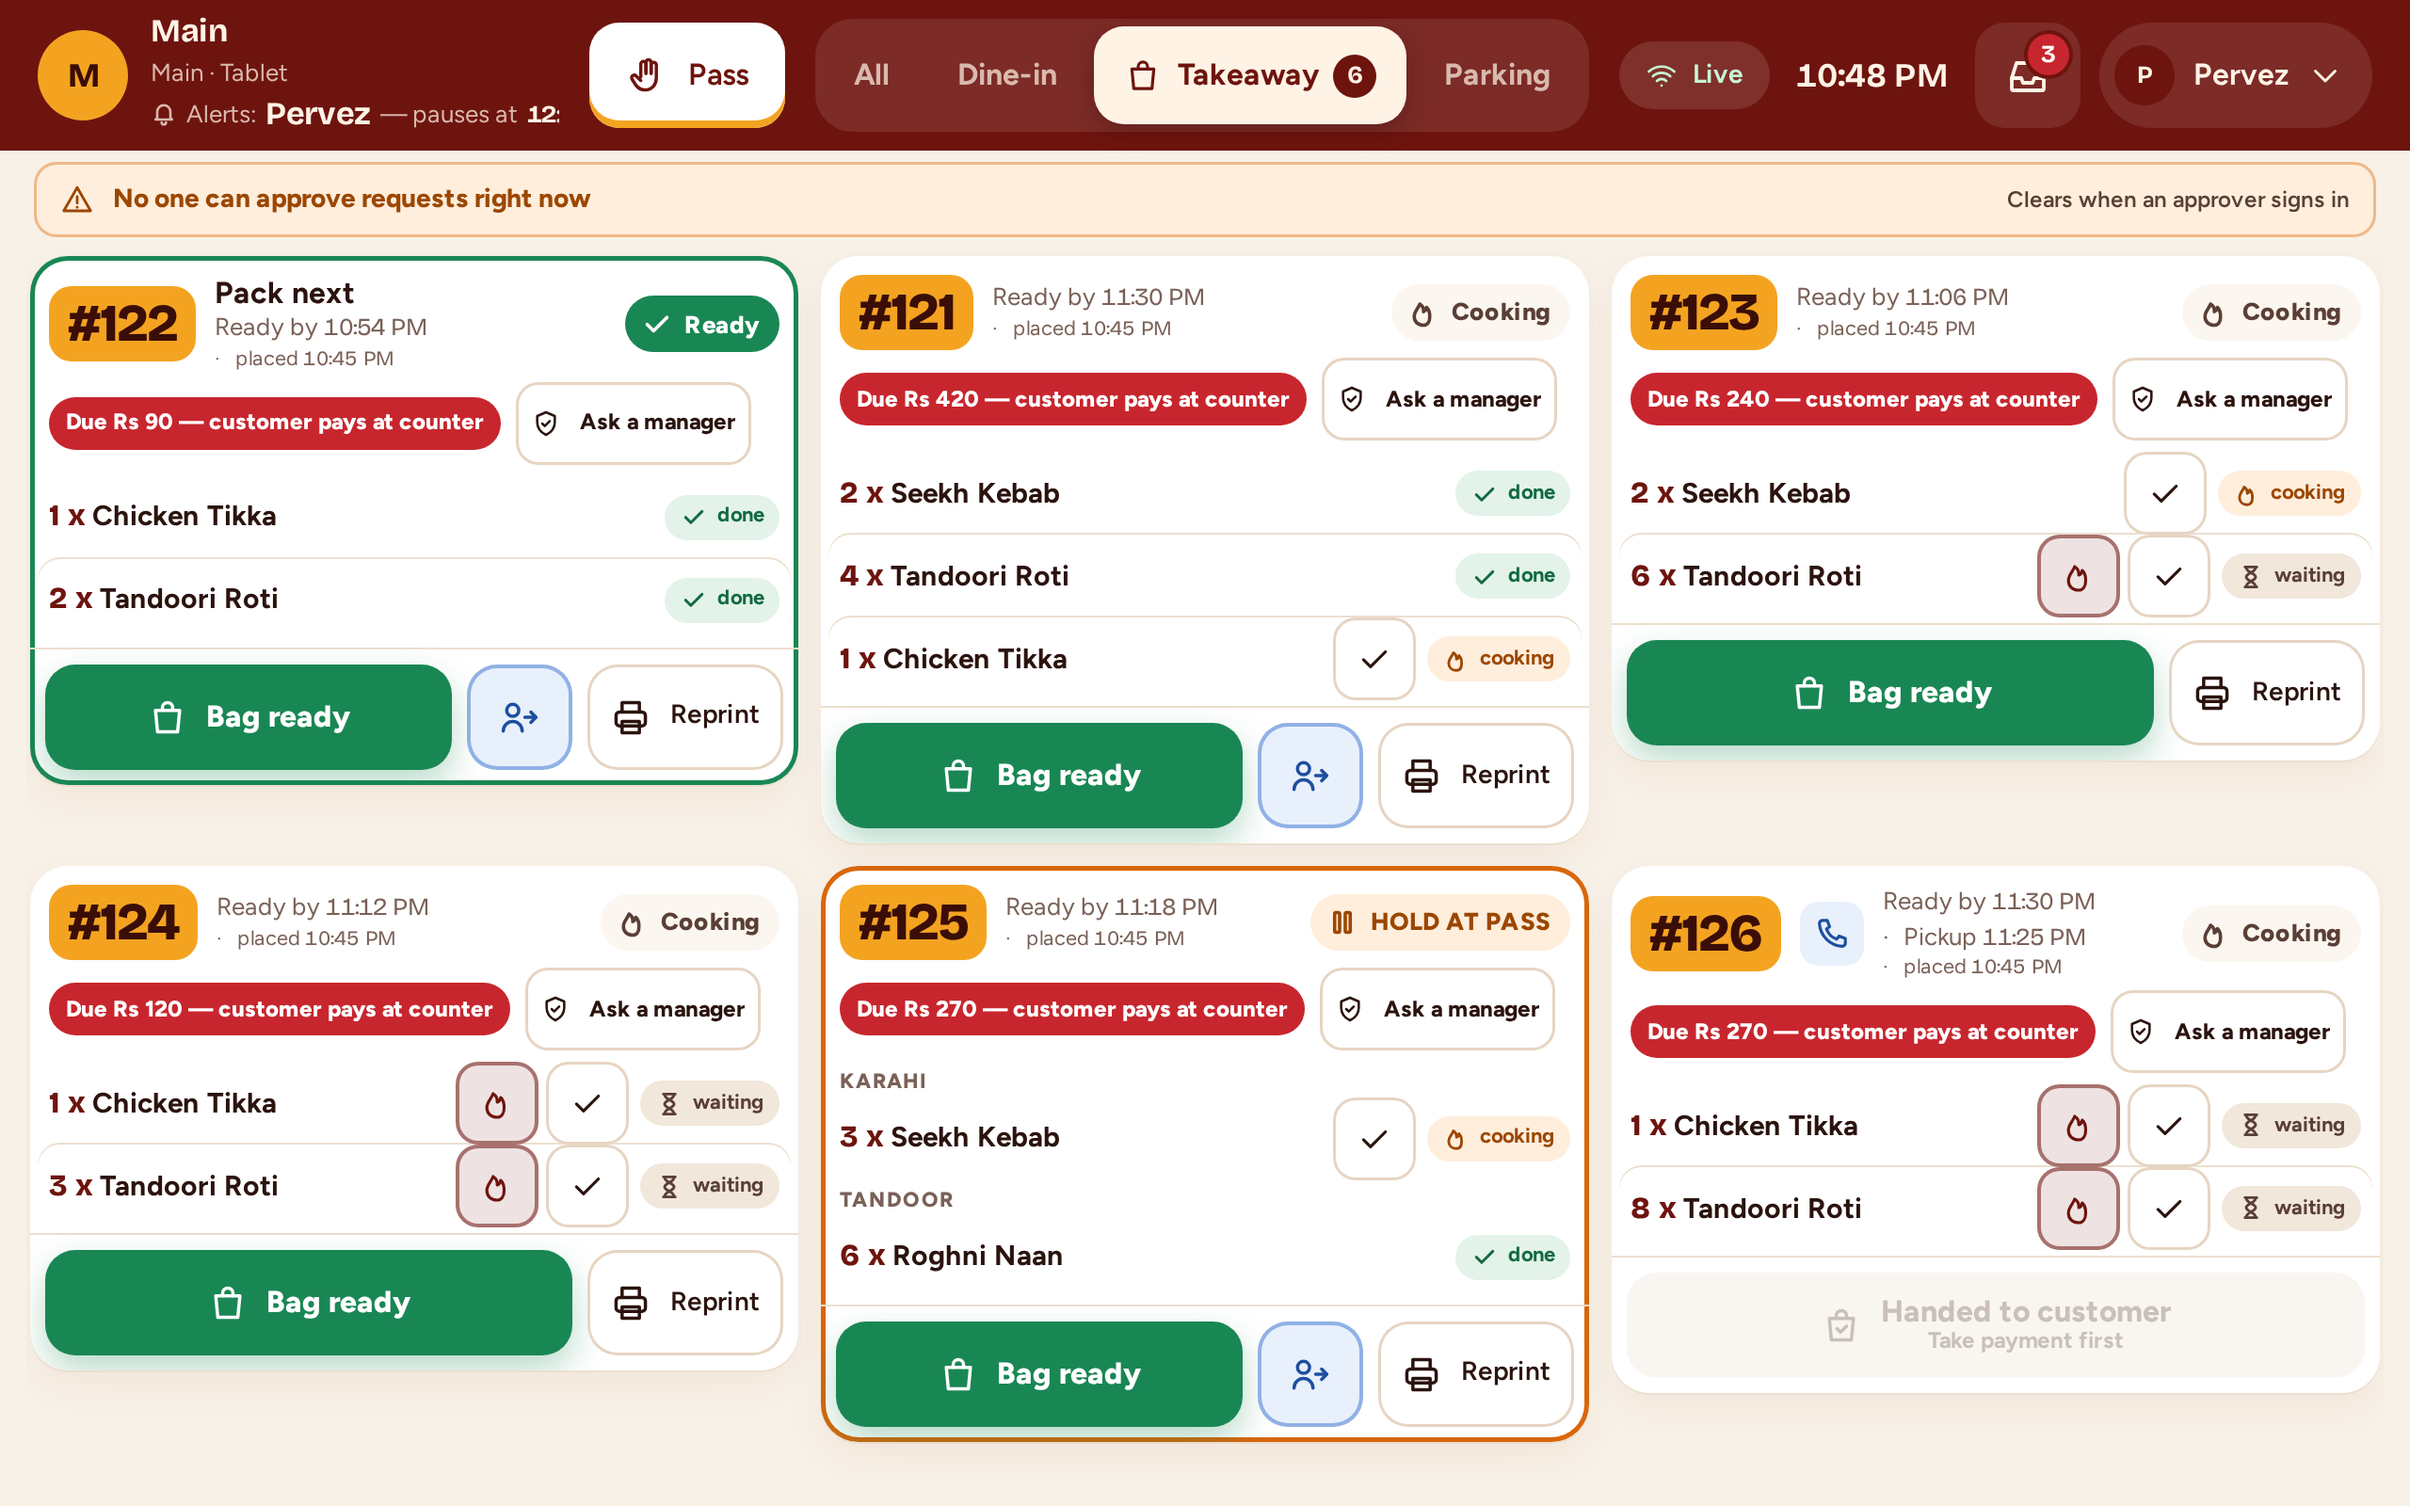
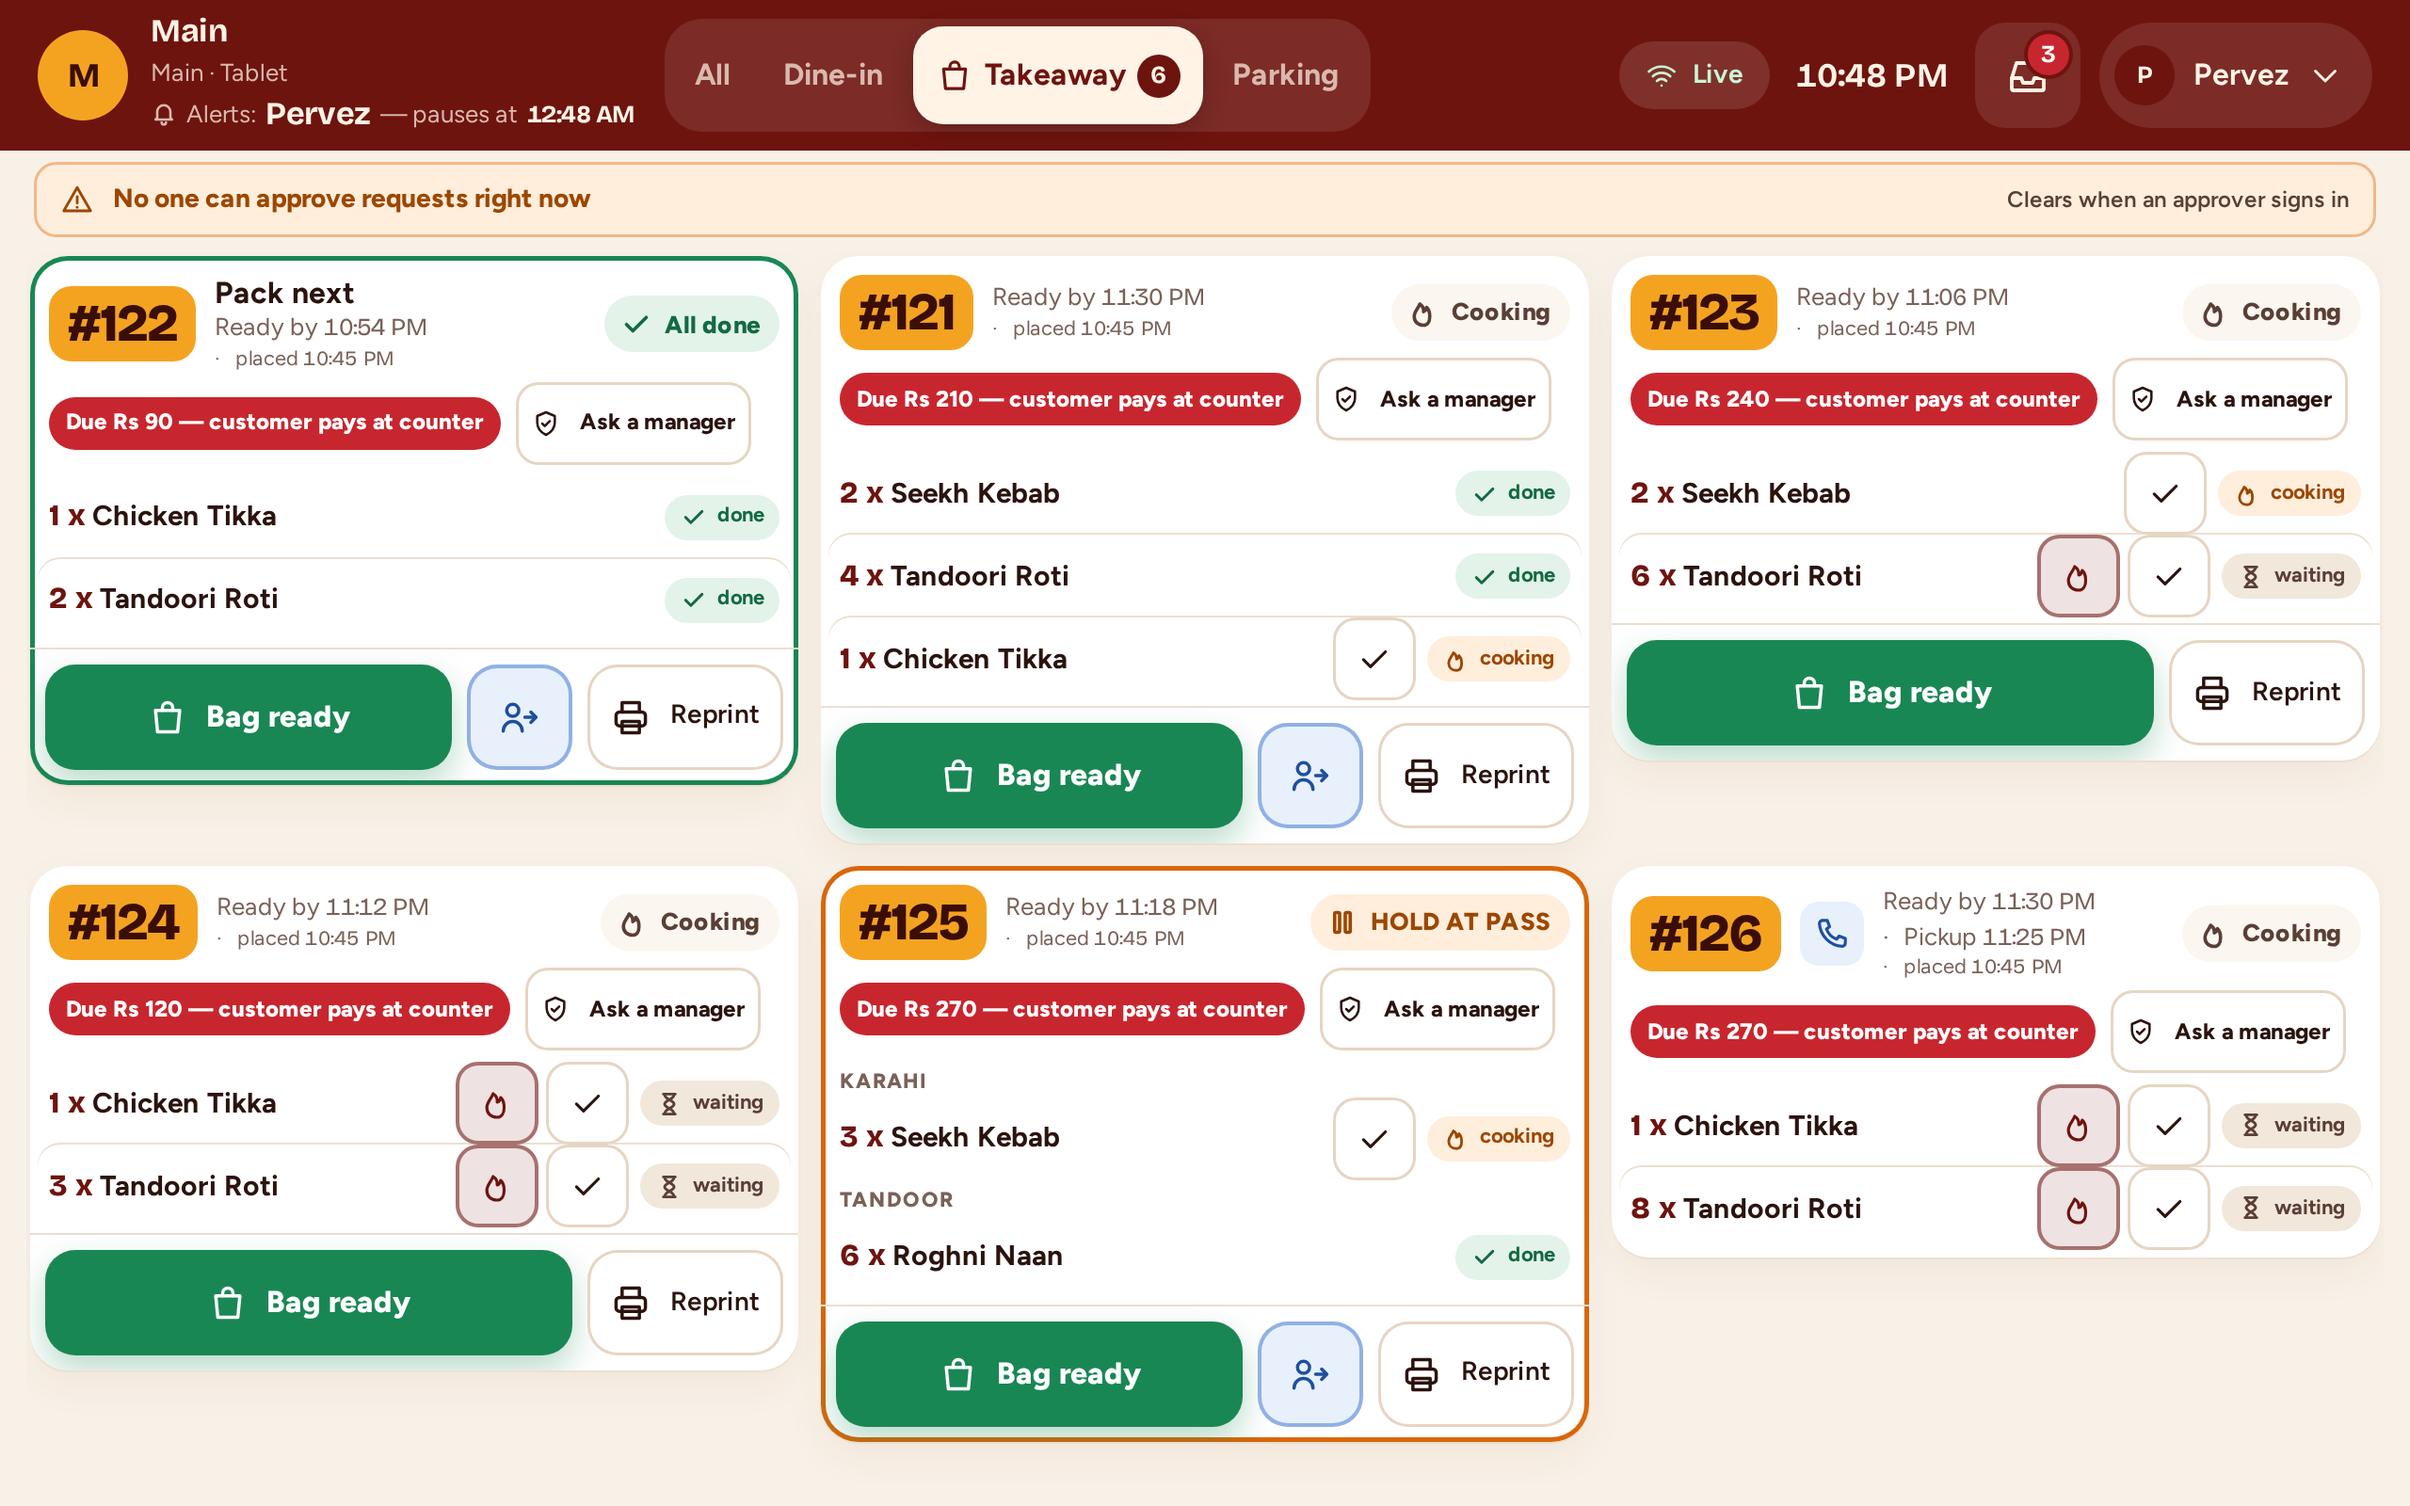
fix(pass): All done vs Ready; a Ready bag never shows Bag ready; no Handed to customer on a cooking or waiting pickup bag; the top bar brand line never clipped; normal build shot [03b v1.0.18 §8]
Claude-Session: https://claude.ai/code/session_01DTZfXLWhi8eHLTtB51vUeM

diff --git a/apps/client/src/features/pass/bag-screen.test.tsx b/apps/client/src/features/pass/bag-screen.test.tsx
@@ -249,3 +249,40 @@ describe('[03b v1.0.17 §3.4; 02b v1.0.26 Q9] Ask a manager on a bag with two bi
     expect(cards()[0]!.querySelector<HTMLButtonElement>('.btn--customer')!.disabled).toBe(false);
   });
 });
+
+// ⚠ 03b v1.0.18 §3.4, §8 (QA design review 2026-11-28): one primary per state, and the pill says which state.
+// All lines done, not marked → pill "All done", primary Bag ready. Marked ready (sent) → pill "Ready", never Bag ready
+// (even with a later line not in the Ready): "Handed to customer" (or its greyed reason) is the primary.
+describe('[03b v1.0.18 §8] Ready means bagged', () => {
+  it('done, not marked → "All done" + Bag ready; marked → "Ready" + Handed to customer, no Bag ready', async () => {
+    const paid = { state: 'paid', due_minor: 0 };
+    const s = shellWith({ grants: PASS, bills: () => openOrders([hubRow('O1', paid)]) });
+    s.raw({ type: 'catch_up', as_of_seq: 1, state: { point_view: view([tokOrder('O1', 'done', 600_000, { ready: null })]) } });
+    show(s.shell);
+    await flush();
+    let c = cards()[0]!;
+    expect(c.querySelector('.rd')!.textContent).toBe('All done');
+    expect(c.querySelectorAll('.pc__f .btn--ready')).toHaveLength(1);
+    expect(c.querySelector('.btn--customer')).toBeNull();
+    // marked ready; a remade line finished later, not in the Ready
+    const sent = tokOrder('O1', 'done', 600_000, { ready: { at: BASE - 10_000, by: null, lines: ['O1-L1'] } });
+    sent.lines.push(line('O1-L2', 'O1', 'done', { identifier: tok }));
+    s.raw({ type: 'catch_up', as_of_seq: 2, state: { point_view: view([sent]) } });
+    await new Promise((r) => setTimeout(r, 1_100)); // the catch-up invalidated the bill read (≥ 1 s debounce)
+    await flush();
+    c = cards()[0]!;
+    expect(c.querySelector('.rd')!.textContent).toBe('Ready');
+    expect(c.querySelector('.pc__f .btn--ready')).toBeNull();
+    expect(c.querySelector<HTMLButtonElement>('.btn--customer')!.disabled).toBe(false);
+  });
+
+  it('a pickup bag still waiting for its whole order shows no Handed to customer (and no greyed one as its primary)', async () => {
+    const s = shellWith({ grants: PASS, bills: () => openOrders([hubRow('O1', { state: 'paid', due_minor: 0 })]) });
+    const pickup = tokOrder('O1', 'done', 600_000, { ready: null, pickup_at_ms: BASE + 30 * 60_000, boosted: false, pickup_readiness: { all_engine_lines_done: false, station_less_hold_until: null } });
+    s.raw({ type: 'catch_up', as_of_seq: 1, state: { point_view: view([pickup]) } });
+    show(s.shell);
+    await new Promise((r) => setTimeout(r, 1_100));
+    await flush();
+    expect(cards()[0]!.querySelector('.btn--customer')).toBeNull();
+  });
+});

diff --git a/apps/client/src/features/pass/PassScreen.tsx b/apps/client/src/features/pass/PassScreen.tsx
@@ -448,7 +448,9 @@ export function PassScreen() {
               // something is not marked ready; then Handed to customer (counter) or Hand over (dine-in). Hand over to
               // staff is otherwise a small secondary icon button (the receiver tiles sheet, for the whole token).
               // ⚠ 03b v1.0.10 §3.4: Bag ready also with an open Ready while lines not in it are left
-              const bagging = canRun && bagOk && pending.length > 0 && state !== 'none';
+              // ⚠ 03b v1.0.18 §8: never on a takeaway / parking bag already marked ready (`sent`): its primary is Handed to
+              // customer, which serves every live line; a dine-in card keeps Ready to serve for lines finished later (v1.0.10)
+              const bagging = canRun && bagOk && pending.length > 0 && state !== 'none' && !(counter && state === 'sent');
               if (bagging) {
                 const b = busy.has(key);
                 buttons.push(
@@ -490,7 +492,9 @@ export function PassScreen() {
               const asks: AskItem[] = askBills.map((b) => ({ order_id: b.order_ids[0]!, due_minor: b.due_minor, ident: customerIdent(bag.card), addition: b.addition }));
               // the Pass→staff Hand over (§3.5), for the whole token (one Handover per order with done lines)
               const toHand = canRun && bag.orders.some((x) => doneToHand(x).length > 0);
-              if (cust !== null && !bagging)
+              // ⚠ 03b v1.0.18 §8: Handed to customer only on a bag marked ready (or all done where nobody here can bag it);
+              // a bag still cooking — a pickup waiting for its whole order included — never shows it as its primary
+              if (cust !== null && !bagging && (state === 'sent' || state === 'ready'))
                 buttons.push(
                   <button key="customer" type="button" className="btn btn--customer" disabled={!cust.enabled} onClick={() => void tapCustomer(bag)}>
                     <svg className="ico" viewBox="0 0 24 24" aria-hidden="true">

diff --git a/apps/client/src/features/staff/tables/TopBar.tsx b/apps/client/src/features/staff/tables/TopBar.tsx
@@ -140,7 +140,9 @@ export function TopBar(p: TopBarProps) {
             </div>
           </div>
         )}
-        {p.person !== null && p.tabs !== undefined && p.tabs.length > 0 && (
+        {/* ⚠ 03b v1.0.18 §8: a single screen tab says nothing when the screen has its own row here (the Pass's type tabs):
+            it goes, so the brand line ("Alerts: … — pauses at …") is never clipped */}
+        {p.person !== null && p.tabs !== undefined && p.tabs.length > 0 && !(p.tabs.length === 1 && p.extra != null && p.extra !== false) && (
           <nav className="tabs-top" aria-label={t('tabs.tables')}>
             {p.tabs.map((tab) => (
               <a key={tab.key} className={p.currentTab === tab.key ? 'btn is-sel' : 'btn'} href={`#${tab.path}`} {...(p.currentTab === tab.key ? { 'aria-current': 'page' as const } : {})}>

diff --git a/apps/client/e2e/02b-tk-bags.spec.ts b/apps/client/e2e/02b-tk-bags.spec.ts
@@ -104,6 +104,9 @@ test('[03b v1.0.17 §8] every station has a screen: status chips only, no strip;
     await expect(page.locator('article.pc', { hasText: tr(lang, 'pass.group_no_screen').split('{station}')[1]!.trim() })).toHaveCount(0);
     await page.evaluate(() => document.fonts.ready.then(() => undefined));
     for (let i = 0; i < 6; i++) expect(await fullyVisible(page, cards.nth(i)), `card ${i + 1}`).toBe(true);
+    // 03b v1.0.18 §8: the top bar's alerts line ("Alerts: … — pauses at …") is never clipped
+    const clipped = await page.locator('header.top .brand .bind').evaluate((el) => el.scrollWidth > el.clientWidth + 1);
+    expect(clipped, 'the brand line is clipped').toBe(false);
     mkdirSync(SHOTS, { recursive: true });
     await page.screenshot({ path: `${SHOTS}/PackerPass-normal-1280x800.png` });
 

diff --git a/apps/client/src/i18n/ur.ts b/apps/client/src/i18n/ur.ts
@@ -1793,6 +1793,7 @@ export const ur: Partial<Record<MessageKey, string>> = {
   'pass.addition_tag': '(اضافہ)', // 03b v1.0.17; Urdu to confirm
   'pass.ready_pick_sub_bag': 'نشان والی چیزیں تیار ہو کر بیگ میں جائیں گی۔', // 03b v1.0.17; Urdu to confirm
   'pass.waiting_counter': 'کاؤنٹر پر انتظار', // 03b v1.0.17; Urdu to confirm
+  'pass.all_done': 'سب تیار', // 03b v1.0.18; Urdu to confirm
   'pass.phone_order': 'فون آرڈر', // 03b v1.0.17; Urdu to confirm
   'pass.waiting_bill': 'بل کا انتظار', // not in strings-table.md; Urdu to confirm
   'pass.pickup_label': 'لینا ہے {time}', // not in strings-table.md; Urdu to confirm

diff --git a/apps/client/src/features/pass/cards/PassCard.tsx b/apps/client/src/features/pass/cards/PassCard.tsx
@@ -24,7 +24,9 @@ const SHOWN = 7;
 const FOLD_AFTER = 8;
 
 const PILL = {
-  ready: { cls: 'rd c-ok solid', key: 'pass.ready', icon: <path d="M5 12.5l4.5 4.5L19 7.5" /> },
+  // ⚠ 03b v1.0.18 §8 (QA design review): "Ready" only once the bag is marked ready (`sent`); every line done, not
+  // marked yet → "All done" (outlined), so a Ready pill never sits beside Bag ready
+  ready: { cls: 'rd c-ok', key: 'pass.all_done', icon: <path d="M5 12.5l4.5 4.5L19 7.5" /> },
   sent: { cls: 'rd c-ok solid', key: 'pass.ready', icon: <path d="M5 12.5l4.5 4.5L19 7.5" /> },
   hold: {
     cls: 'rd c-warn',

diff --git a/packages/ui-kit/components/kds-03-additions.css b/packages/ui-kit/components/kds-03-additions.css
@@ -212,3 +212,6 @@
 /* round 2b, Urdu: the card's Nastaliq lines at a tighter line height (the 3 × 2 grid holds in both languages) */
 .pu[lang="ur"] .pc :is(.pl__t, .pc__m, .pc__next, .pc__due, .pc__askb, .stg, .rd, .pc__g) { line-height: 1.45; }
 .pu[lang="ur"] .pc .pc__f .btn { line-height: 1.4; }
+/* 03b v1.0.18 §8: the bar fits at 1280 — tighter type tabs; the brand line keeps its width */
+.top .pfilter--bar button { padding: 0 12px; gap: 6px; }
+.top:has(.top-extra) .brand { flex: 0 1 auto; min-width: 200px; }

diff --git a/apps/client/src/i18n/en.ts b/apps/client/src/i18n/en.ts
@@ -4452,6 +4452,7 @@ export const en = {
   'pass.addition_tag': '(addition)',
   'pass.ready_pick_sub_bag': 'Ticked items go into the bag as ready.',
   'pass.waiting_counter': 'Waiting at counter',
+  'pass.all_done': 'All done', // ⚠ 03b v1.0.18 §8: every line done, the bag not marked ready yet
   'pass.phone_order': 'Phone order',
   'pass.waiting_bill': 'Waiting for the bill',
   'pass.pickup_label': 'Pickup {time}',
